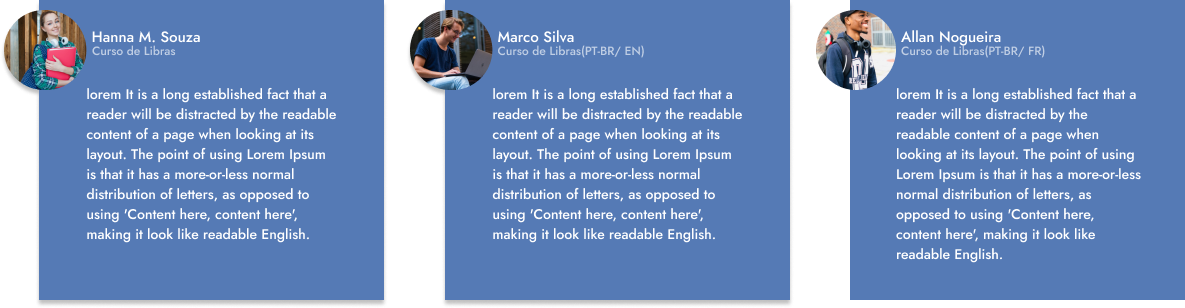
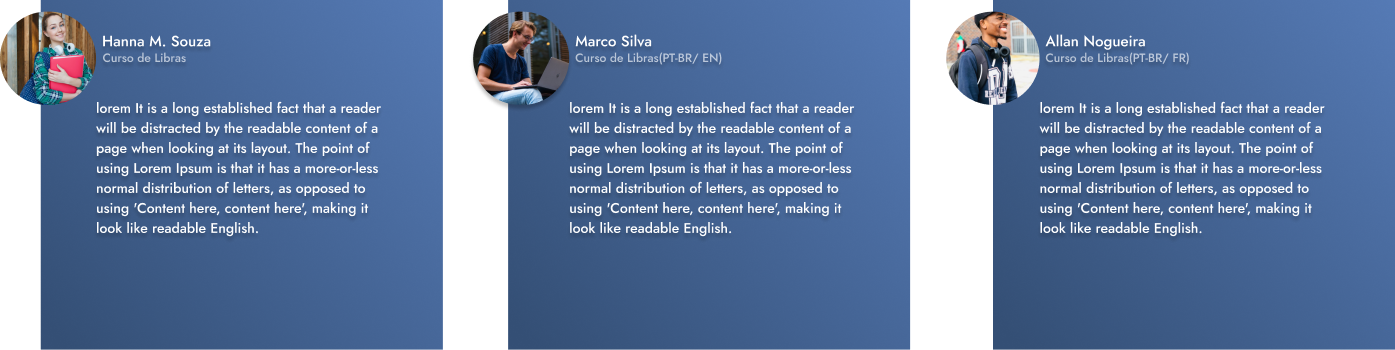
commentsSection3
Adicionei a imagem dos comentários da seção 3

diff --git a/index.html b/index.html
@@ -39,7 +39,9 @@
         <section id="secao2">
             <p>Somos a Signal. Um curso de Libras que iniciou a sua jornada em um pequeno bairro do Rio de Janeiro e que hoje é a maior plataforma de ensino de Libras do Brasil. Com mais de 10 anos de história, contamos com professores surdos e intérpretes credenciados para seu melhor ensino e uma metodologia inovadora que vai fazer você sair do vocabulário básico para o nível fluente.</p>
         </section>
-        <section id="secao3"></section>
+        <section id="secao3">
+            <img src="./img/Group 6.png" alt="comentarios">
+        </section>
         <section id="secao4"></section>
     </main>
     <footer>

diff --git a/css/style.css b/css/style.css
@@ -121,8 +121,14 @@ nav img{
     width: 100%;
     height: 500px;
     display: flex;
+    justify-content: center;
+    align-items: center;
     background-color: white;
     border-bottom: 1px solid #E2DDDD;
+}
+#secao3 img{
+    width: 1100px;
+    height: 300px;
 }
 #secao4{
     width: 100%;
